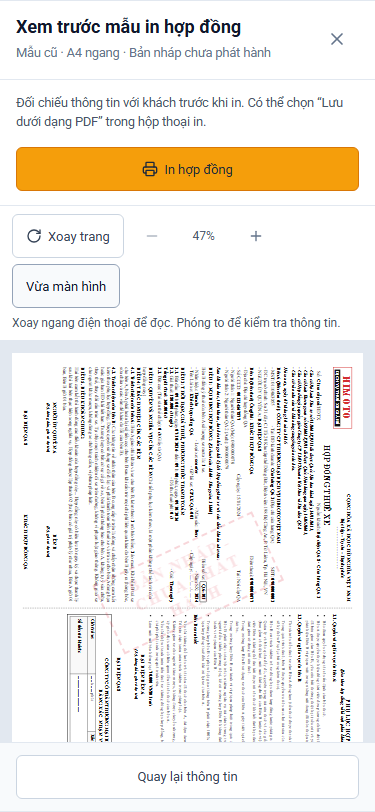
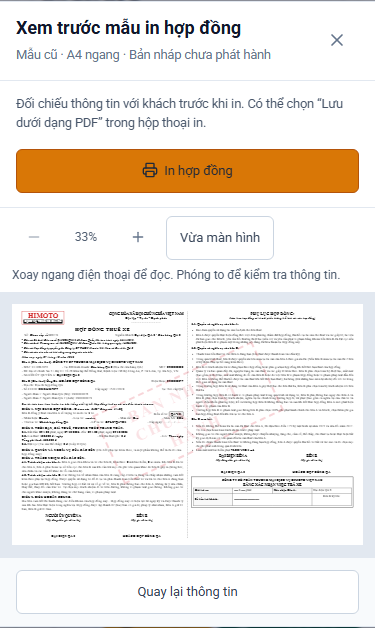
fix: keep contract previews landscape without rotation controls

diff --git a/src/components/contracts/ContractPrintPreview.tsx b/src/components/contracts/ContractPrintPreview.tsx
@@ -1,16 +1,16 @@
 'use client';
 
 import { createContext, ReactNode, useContext, useEffect, useRef, useState } from 'react';
-import { LoaderCircle, Minus, Plus, Printer, RotateCw } from 'lucide-react';
+import { LoaderCircle, Minus, Plus, Printer } from 'lucide-react';
 import { Dialog } from '@/components/management/Dialog';
 import { LegacyContractDocument } from '@/lib/management/contract-document';
 import { ContractPrintDocument } from './ContractPrintDocument';
 
-const PreviewLayout = createContext({ scale: 1, rotated: false });
+const PreviewLayout = createContext(1);
 
 function PreviewPage({ children }: { children: ReactNode }) {
   const content = useRef<HTMLDivElement>(null);
-  const { scale, rotated } = useContext(PreviewLayout);
+  const scale = useContext(PreviewLayout);
   const [size, setSize] = useState({ width: 1077, height: 737 });
   useEffect(() => {
     const page = content.current?.querySelector<HTMLElement>('.contract-page');
@@ -20,8 +20,8 @@ function PreviewPage({ children }: { children: ReactNode }) {
     observer.observe(page); measure();
     return () => observer.disconnect();
   }, []);
-  return <div className="mg-contract-preview-page" style={{ width: (rotated ? size.height : size.width) * scale, height: (rotated ? size.width : size.height) * scale }}>
-    <div ref={content} className="mg-contract-preview-page-content" style={{ transform: rotated ? `translateX(${size.height * scale}px) rotate(90deg) scale(${scale})` : `scale(${scale})` }}>{children}</div>
+  return <div className="mg-contract-preview-page" style={{ width: size.width * scale, height: size.height * scale }}>
+    <div ref={content} className="mg-contract-preview-page-content" style={{ transform: `scale(${scale})` }}>{children}</div>
   </div>;
 }
 
@@ -31,19 +31,10 @@ export function ContractPrintPreview({ doc, onClose }: { doc: LegacyContractDocu
   const busy = useRef(false);
   const [printing, setPrinting] = useState(false);
   const [error, setError] = useState('');
-  const [portraitPhone, setPortraitPhone] = useState(false);
-  const [rotationOverride, setRotationOverride] = useState<boolean | null>(null);
   const [fitScale, setFitScale] = useState(1);
   const [zoom, setZoom] = useState(1);
-  const rotated = rotationOverride ?? portraitPhone;
   const scale = fitScale * zoom;
   useEffect(() => () => { frame.current?.remove(); }, []);
-  useEffect(() => {
-    const query = window.matchMedia('(max-width: 600px) and (orientation: portrait)');
-    const update = () => setPortraitPhone(query.matches);
-    update(); query.addEventListener('change', update);
-    return () => query.removeEventListener('change', update);
-  }, []);
   useEffect(() => {
     const viewport = paper.current;
     const pages = Array.from(viewport?.querySelectorAll<HTMLElement>('.contract-page') || []);
@@ -51,13 +42,13 @@ export function ContractPrintPreview({ doc, onClose }: { doc: LegacyContractDocu
     const measure = () => {
       const style = getComputedStyle(viewport);
       const available = viewport.clientWidth - parseFloat(style.paddingLeft) - parseFloat(style.paddingRight);
-      const width = Math.max(...pages.map(page => rotated ? page.offsetHeight : page.offsetWidth));
+      const width = Math.max(...pages.map(page => page.offsetWidth));
       if (available > 0 && width > 0) setFitScale(Math.min(1, available / width));
     };
     const observer = new ResizeObserver(measure);
     observer.observe(viewport); pages.forEach(page => observer.observe(page)); measure();
     return () => observer.disconnect();
-  }, [doc, rotated]);
+  }, [doc]);
   async function print() {
     if (busy.current) return;
     busy.current = true; setPrinting(true); setError('');
@@ -81,7 +72,7 @@ export function ContractPrintPreview({ doc, onClose }: { doc: LegacyContractDocu
         target.head.appendChild(copy);
       });
       const printable = source.cloneNode(true) as HTMLElement;
-      // Only the preview rotates/scales pages; print retains the original A4 layout.
+      // Only the preview scales pages; print retains the original A4 layout.
       printable.querySelectorAll('.mg-contract-preview-page').forEach(wrapper => {
         const page = wrapper.querySelector('.contract-page');
         if (page) wrapper.replaceWith(page);
@@ -104,7 +95,6 @@ export function ContractPrintPreview({ doc, onClose }: { doc: LegacyContractDocu
       <button className="mg-button mg-button-primary" type="button" onClick={() => void print()} disabled={printing}>{printing ? <LoaderCircle size={16} className="mg-spin" /> : <Printer size={16} />}{printing ? 'Đang chuẩn bị…' : 'In hợp đồng'}</button></div>
     {error && <p className="mg-error-message" role="alert">{error}</p>}
     <div className="mg-contract-preview-controls" role="group" aria-label="Điều chỉnh mẫu xem trước">
-      <button type="button" className="mg-button" aria-pressed={rotated} onClick={() => { setRotationOverride(!rotated); setZoom(1); }}><RotateCw size={16} />Xoay trang</button>
       <button type="button" className="mg-icon-button" aria-label="Thu nhỏ mẫu in" disabled={zoom <= 1} onClick={() => setZoom(value => Math.max(1, value - 0.5))}><Minus size={16} /></button>
       <output aria-live="polite">{Math.round(scale * 100)}%</output>
       <button type="button" className="mg-icon-button" aria-label="Phóng to mẫu in" disabled={zoom >= 3} onClick={() => setZoom(value => Math.min(3, value + 0.5))}><Plus size={16} /></button>
@@ -112,7 +102,7 @@ export function ContractPrintPreview({ doc, onClose }: { doc: LegacyContractDocu
       <p className="mg-contract-preview-hint">Xoay ngang điện thoại để đọc. Phóng to để kiểm tra thông tin.</p>
     </div>
     <div className="mg-contract-paper-scroll" tabIndex={0} role="region" aria-label="Mẫu hợp đồng, cuộn để xem các trang" ref={paper}>
-      <PreviewLayout.Provider value={{ scale, rotated }}><ContractPrintDocument doc={doc} pageWrapper={PreviewPage} /></PreviewLayout.Provider>
+      <PreviewLayout.Provider value={scale}><ContractPrintDocument doc={doc} pageWrapper={PreviewPage} /></PreviewLayout.Provider>
     </div>
     <div className="mg-dialog-footer"><button type="button" className="mg-button" onClick={onClose} disabled={printing}>Quay lại thông tin</button></div>
   </Dialog>;

diff --git a/scripts/check-contract-layout-ui.py b/scripts/check-contract-layout-ui.py
@@ -219,9 +219,9 @@ with sync_playwright() as playwright:
           const el = document.querySelector('.mg-contract-paper-scroll');
           return el && el.scrollWidth <= el.clientWidth + 1;
         }''')
-        expect(preview.get_by_role('button', name='Xoay trang', exact=True)).to_have_attribute('aria-pressed', 'true' if width < height else 'false')
+        expect(preview.get_by_role('button', name='Xoay trang', exact=True)).to_have_count(0)
         bounds = preview.locator('.contract-page').first.bounding_box()
-        assert bounds['height'] > bounds['width'] if width < height else bounds['width'] > bounds['height'], bounds
+        assert bounds['width'] > bounds['height'], bounds
         assert not page.evaluate('document.documentElement.scrollWidth > innerWidth')
         if width > height:
             assert paper_viewport.bounding_box()['height'] >= height / 2, 'Landscape controls leave too little space to read the contract'
@@ -233,11 +233,8 @@ with sync_playwright() as playwright:
         }''')
         preview.get_by_role('button', name='Vừa màn hình', exact=True).click()
         page.wait_for_function('document.querySelector(".mg-contract-paper-scroll").scrollWidth <= document.querySelector(".mg-contract-paper-scroll").clientWidth + 1')
-    preview.get_by_role('button', name='Xoay trang', exact=True).click()
-    expect(preview.get_by_role('button', name='Xoay trang', exact=True)).to_have_attribute('aria-pressed', 'true')
-    preview.get_by_role('button', name='Xoay trang', exact=True).click()
     page.set_viewport_size({'width': 1440, 'height': 1000})
-    checks.append('phone previews fit every page, rotate vertically in portrait and support zoom/reset in landscape without clipping')
+    checks.append('phone previews keep A4 landscape in both orientations, fit every page and support zoom/reset without a rotation button or clipping')
     preview.get_by_role('button', name='Quay lại thông tin').click()
     select_tab(form, 'Phương tiện')
     form.get_by_role('button', name='Thêm xe', exact=True).click()
@@ -250,12 +247,11 @@ with sync_playwright() as playwright:
     expect(preview.locator('.mg-contract-preview-page')).to_have_count(2)
     pages = preview.locator('.mg-contract-preview-page').all()
     assert pages[1].bounding_box()['y'] >= pages[0].bounding_box()['y'] + pages[0].bounding_box()['height']
-    # Printing from a rotated/zoomed phone preview still produces the original A4 pages.
-    preview.get_by_role('button', name='Xoay trang', exact=True).click()
+    # Printing from a zoomed phone preview still produces the original A4 pages.
     preview.get_by_role('button', name='Phóng to mẫu in', exact=True).click()
     pdf_from_print(page, context, preview, 'contract-mobile-multiple-vehicles.pdf', 2)
     page.set_viewport_size({'width': 1440, 'height': 1000})
-    checks.append('multiple preview pages remain stacked on phones; mobile rotation/zoom does not change the printed PDF')
+    checks.append('multiple preview pages remain stacked on phones; mobile zoom does not change the printed PDF')
     preview.get_by_role('button', name='Quay lại thông tin').click()
     checks.append('preview and actual print use matching legacy typography; single/multiple vehicles generate one/two A4 landscape PDF pages with all original terms')
     form.get_by_role('button', name='Lưu nháp', exact=True).click()
